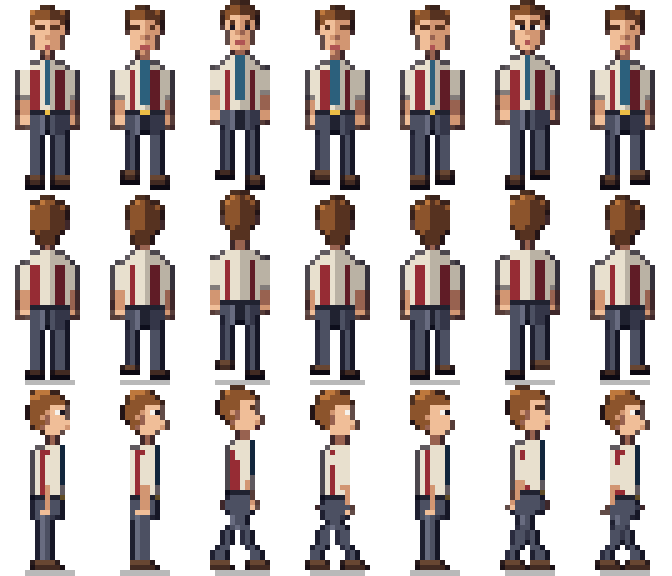
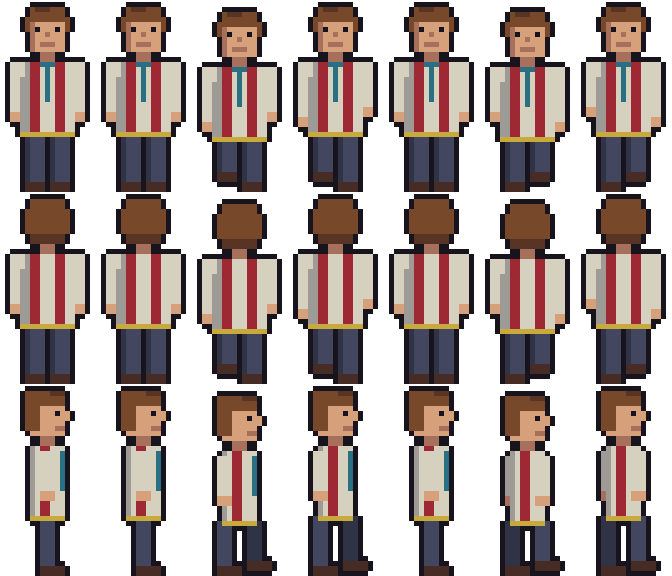
Redraw the player in the same style as the pub folk

diff --git a/CLAUDE.md b/CLAUDE.md
@@ -97,4 +97,4 @@ All art is placeholder (now 4x resolution, see below), generated by throwaway sc
 
 ## Art resolution
 
-The look is film noir, early evening: dark desaturated palettes with blue shadows, a dusk sky in the window, warm pools of light (lamps, the back bar, a wall sconce) baked into the art by the generator (`Lit` with dithered bands) and a lanky hatless player in a cream shirt, red braces and a teal tie (hand-pixelled from ASCII maps in the generator) who stands out against the dark rooms. The picture is natively 1280x720: the room renders into a 1280x720 target (`ui::RENDER_SCALE` = 4, nearest filtered) and every image has 4 pixels per game unit (backgrounds 1280x720, a 96x192 character frame drawn 24x48 units, props with `scale = 4` in the room file, the cursor 40x56). Game coordinates, scripts, hotspots and walk areas are still in the 320x180 virtual space; sprites snap to 1/4 unit. The art is designed on a 320x180 grid (hand-picked colour ramps, Bayer dithering, hue-shifted shadows, a darkened one pixel outline, in the style of Thimbleweed Park) by a throwaway C# program (System.Drawing via PowerShell `Add-Type`, not in the repo), then resampled so each art pixel is a hard 5x5 block (1.25 game units, `Cv.Mid`; no smoothing), except the cursor which is a plain 4x upscale. The cursor is that program's 4x upscale of the original 10x14 arrow, drawn at `size() / RENDER_SCALE`. Item icons in the panel are still flat colour squares.
+The look is film noir, early evening: dark desaturated palettes with blue shadows, a dusk sky in the window, warm pools of light (lamps, the back bar, a wall sconce) baked into the art by the generator (`Lit` with dithered bands) and a hatless player in a cream shirt, red braces and a teal tie, drawn in the same blocky outlined style as the pub folk (a 19x38 art-pixel figure per 96x192 frame, from a throwaway generator like theirs) who stands out against the dark rooms. The picture is natively 1280x720: the room renders into a 1280x720 target (`ui::RENDER_SCALE` = 4, nearest filtered) and every image has 4 pixels per game unit (backgrounds 1280x720, a 96x192 character frame drawn 24x48 units, props with `scale = 4` in the room file, the cursor 40x56). Game coordinates, scripts, hotspots and walk areas are still in the 320x180 virtual space; sprites snap to 1/4 unit. The art is designed on a 320x180 grid (hand-picked colour ramps, Bayer dithering, hue-shifted shadows, a darkened one pixel outline, in the style of Thimbleweed Park) by a throwaway C# program (System.Drawing via PowerShell `Add-Type`, not in the repo), then resampled so each art pixel is a hard 5x5 block (1.25 game units, `Cv.Mid`; no smoothing), except the cursor which is a plain 4x upscale. The cursor is that program's 4x upscale of the original 10x14 arrow, drawn at `size() / RENDER_SCALE`. Item icons in the panel are still flat colour squares.
